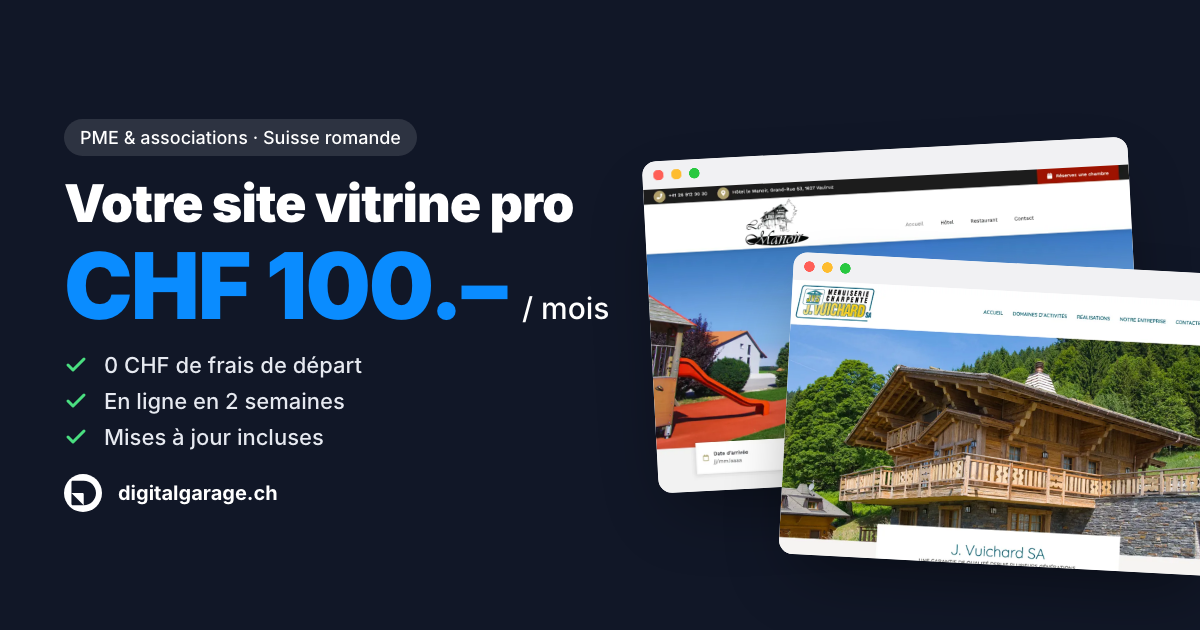
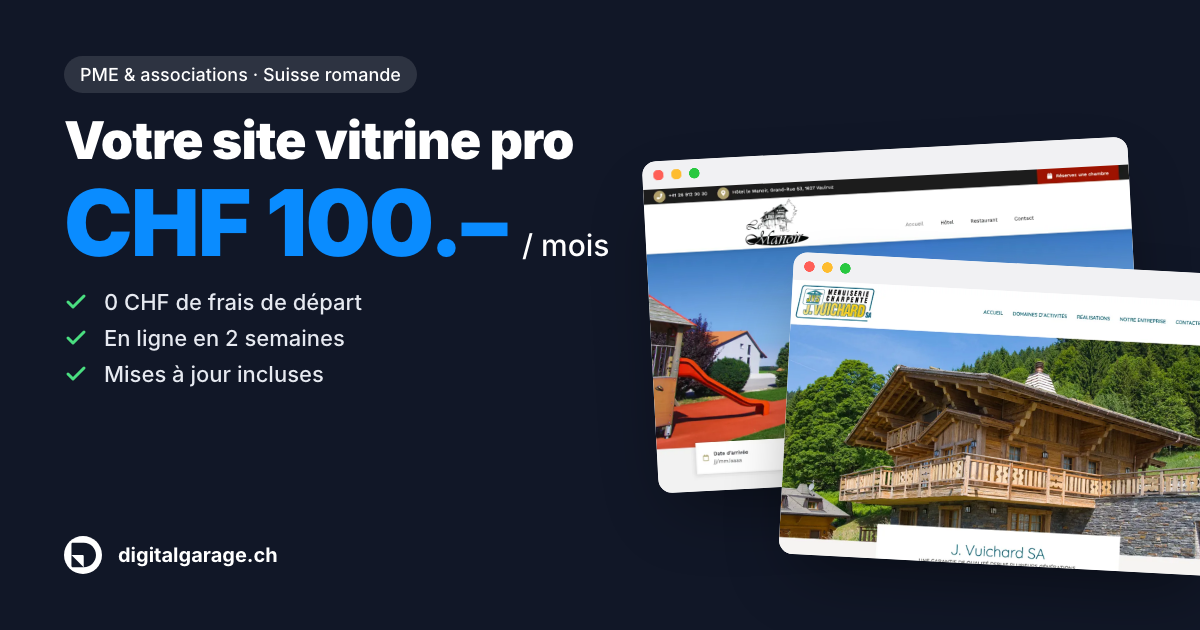
Remove maudephoto

diff --git a/site-vitrine.html b/site-vitrine.html
@@ -18,7 +18,7 @@
   <link rel="preconnect" href="https://fonts.gstatic.com" crossorigin>
   <link href="https://fonts.googleapis.com/css2?family=Inter:wght@300;400;500;700;900&display=swap" rel="stylesheet">
   <link rel="stylesheet" href="css/style.css?v=6">
-  <link rel="stylesheet" href="css/vitrine.css?v=6">
+  <link rel="stylesheet" href="css/vitrine.css?v=7">
   <script type="application/ld+json">
   {
     "@context": "https://schema.org",
@@ -187,7 +187,7 @@
       <div class="stack" aria-hidden="true">
         <div class="browser b1"><img src="images/vitrine/hotel-lemanoir.webp" alt=""></div>
         <div class="browser b2"><img src="images/vitrine/vuichardsa.webp" alt=""></div>
-        <div class="browser b3"><img src="images/vitrine/maudephoto.webp" alt=""></div>
+        <div class="browser b3"><img src="images/vitrine/garage-girard.webp" alt=""></div>
         <div class="price-badge"><div><span>dès</span><b>100.–</b><span>CHF / mois</span></div></div>
       </div>
     </div>
@@ -296,10 +296,6 @@
         <a class="work" href="https://www.vuichardsa.ch/" target="_blank" rel="noopener">
           <div class="browser"><img src="images/vitrine/vuichardsa.webp" alt="Site de la menuiserie-charpente J. Vuichard SA" loading="lazy" width="1200" height="750"></div>
           <h3>J. Vuichard SA</h3><p>Menuiserie &amp; charpente</p>
-        </a>
-        <a class="work" href="https://maudephoto.ch/" target="_blank" rel="noopener">
-          <div class="browser"><img src="images/vitrine/maudephoto.webp" alt="Site de la photographe MaudePhoto" loading="lazy" width="1200" height="750"></div>
-          <h3>MaudePhoto</h3><p>Photographe</p>
         </a>
         <a class="work" href="https://garage-girard.ch/" target="_blank" rel="noopener">
           <div class="browser"><img src="images/vitrine/garage-girard.webp" alt="Site du Garage Girard à Romont" loading="lazy" width="1200" height="750"></div>

diff --git a/index.html b/index.html
@@ -166,14 +166,12 @@
             <div class="track">
               <div class="shot"><img src="images/vitrine/hotel-lemanoir.webp" alt="" loading="lazy"></div>
               <div class="shot"><img src="images/vitrine/vuichardsa.webp" alt="" loading="lazy"></div>
-              <div class="shot"><img src="images/vitrine/maudephoto.webp" alt="" loading="lazy"></div>
               <div class="shot"><img src="images/vitrine/garage-girard.webp" alt="" loading="lazy"></div>
               <div class="shot"><img src="images/vitrine/fanfare-semsales.webp" alt="" loading="lazy"></div>
               <div class="shot"><img src="images/vitrine/demierremecanique.webp" alt="" loading="lazy"></div>
               <div class="shot"><img src="images/vitrine/desalpe-semsales.webp" alt="" loading="lazy"></div>
               <div class="shot"><img src="images/vitrine/hotel-lemanoir.webp" alt="" loading="lazy"></div>
               <div class="shot"><img src="images/vitrine/vuichardsa.webp" alt="" loading="lazy"></div>
-              <div class="shot"><img src="images/vitrine/maudephoto.webp" alt="" loading="lazy"></div>
               <div class="shot"><img src="images/vitrine/garage-girard.webp" alt="" loading="lazy"></div>
               <div class="shot"><img src="images/vitrine/fanfare-semsales.webp" alt="" loading="lazy"></div>
               <div class="shot"><img src="images/vitrine/demierremecanique.webp" alt="" loading="lazy"></div>

diff --git a/css/vitrine.css b/css/vitrine.css
@@ -137,8 +137,9 @@
 
 /* Réalisations */
 .works { display: grid; grid-template-columns: repeat(4, 1fr); gap: 24px; }
+.work.yours { grid-column: span 2; }
 .work.yours .slot {
-  aspect-ratio: 16 / 11.4; border: 2px dashed #c9ccd4; border-radius: 10px;
+  aspect-ratio: 33 / 11.4; border: 2px dashed #c9ccd4; border-radius: 10px;
   display: grid; place-content: center; text-align: center; gap: 6px; padding: 12px;
   transition: border-color .2s, background .2s;
 }
